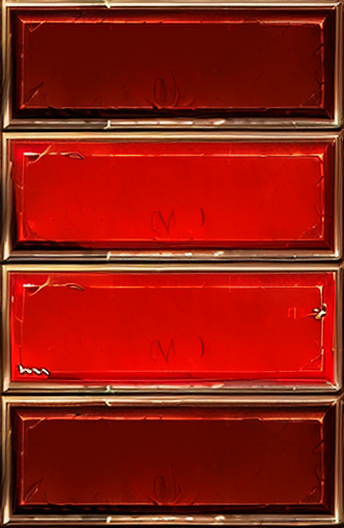
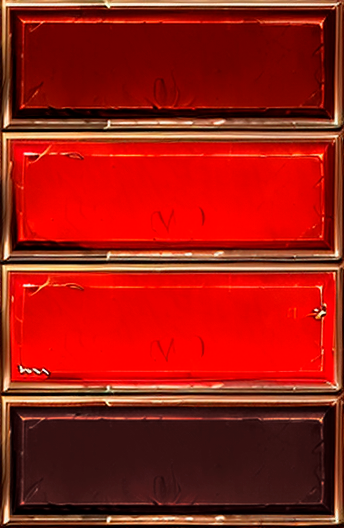
Availability update x2

diff --git a/src/main/java/org/foxesworld/engine/action/ActionHandler.java b/src/main/java/org/foxesworld/engine/action/ActionHandler.java
@@ -43,7 +43,9 @@ public class ActionHandler {
                 }
             }
 
-            case "smallButton" -> { this.engine.getGuiBuilder().getComponentById(key).setEnabled(false);}
+            case "smallButton" -> { this.engine.getGuiBuilder().getComponentById(key).setEnabled(false);
+                engine.getSOUND().playSound("exit.ogg", false);
+            }
 
             case "gameDir" -> openGameFolder();
 
@@ -61,11 +63,7 @@ public class ActionHandler {
             }
 
             case "logOut" -> {
-                this.engine.getLOGGER().info("LoggingOut...");
-                this.engine.getAuth().setAuthorised(false);
-                engine.getFrame().getRootPanel().removeAll();
-                this.engine.getCONFIG().clearConfigData(Arrays.asList("login", "password"), true);
-                engine.initialize("");
+                this.engine.getAuth().logOut();
             }
 
             case "settings" -> {
@@ -86,6 +84,7 @@ public class ActionHandler {
 
             case "toGame" -> {
                 this.engine.getGuiBuilder().getComponentById(key).setEnabled(false);
+                this.engine.getGuiBuilder().getComponentById("logOut").setEnabled(false);
                 this.currentServer = engine.getAuth().getUserServersAttributes().get(ScrollBox.getSelectedIndex());
                 this.getEngine().getLOGGER().info("Launching "+this.currentServer.getServerName());
                 this.engine.getCONFIG().setConfigValue("selectedServer", ScrollBox.getSelectedIndex());

diff --git a/src/main/java/org/foxesworld/launcher/Auth/Auth.java b/src/main/java/org/foxesworld/launcher/Auth/Auth.java
@@ -39,7 +39,7 @@ public class Auth {
             Map<String, String> authCredentials = new HashMap<>();
             authCredentials.put("login",  CONFIG.getLogin());
             authCredentials.put("password", CONFIG.getPassword());
-            this.engine.getLOGGER().debug("Authorising with saved login " + CONFIG.getLogin());
+            this.engine.getLOGGER().debug("Trying to authorise with saved login " + CONFIG.getLogin());
             //Writing login data if it's not present
             if (!this.authorize(authCredentials)) {
                 engine.getCONFIG().clearConfigData(Arrays.asList("login", "password"), true);
@@ -82,6 +82,7 @@ public class Auth {
                 saveAuthCredentials(authCredentials);
             }
         } else {
+            engine.getLOGGER().info("Incorrect password for "+authCredentials.get("login") + "!");
             JOptionPane.showMessageDialog(engine.getFrame().getFrame(), responseMap.get("message"));
         }
         return status;
@@ -96,6 +97,14 @@ public class Auth {
             userServersArray[i] = serverAttributes.getServerName() + ' ' + serverAttributes.getServerVersion();
             i++;
         }
+    }
+
+    public void logOut(){
+        this.engine.getLOGGER().info("LoggingOut...");
+        this.engine.getAuth().setAuthorised(false);
+        engine.getFrame().getRootPanel().removeAll();
+        this.engine.getCONFIG().clearConfigData(Arrays.asList("login", "password"), true);
+        engine.initialize("");
     }
 
     private void saveAuthCredentials(Map<String, String> authCredentials) {

diff --git a/src/main/java/org/foxesworld/launcher/FileLoader/FileGuard/FileGuard.java b/src/main/java/org/foxesworld/launcher/FileLoader/FileGuard/FileGuard.java
@@ -13,7 +13,7 @@ public class FileGuard {
     private FileGuardListener fileGuardListener;
     private final List<String> checkList;
     private final Set<String> ignoreList;
-    private final String[] basicIgnoreDirs = {"saves", "resourcepacks", "shaderpacks", "logs"};
+    private final String[] basicIgnoreDirs = {"saves", "resourcepacks", "shaderpacks", "logs", "config"};
     private final GameLauncher gameLauncher;
     private final Logger logger;
 